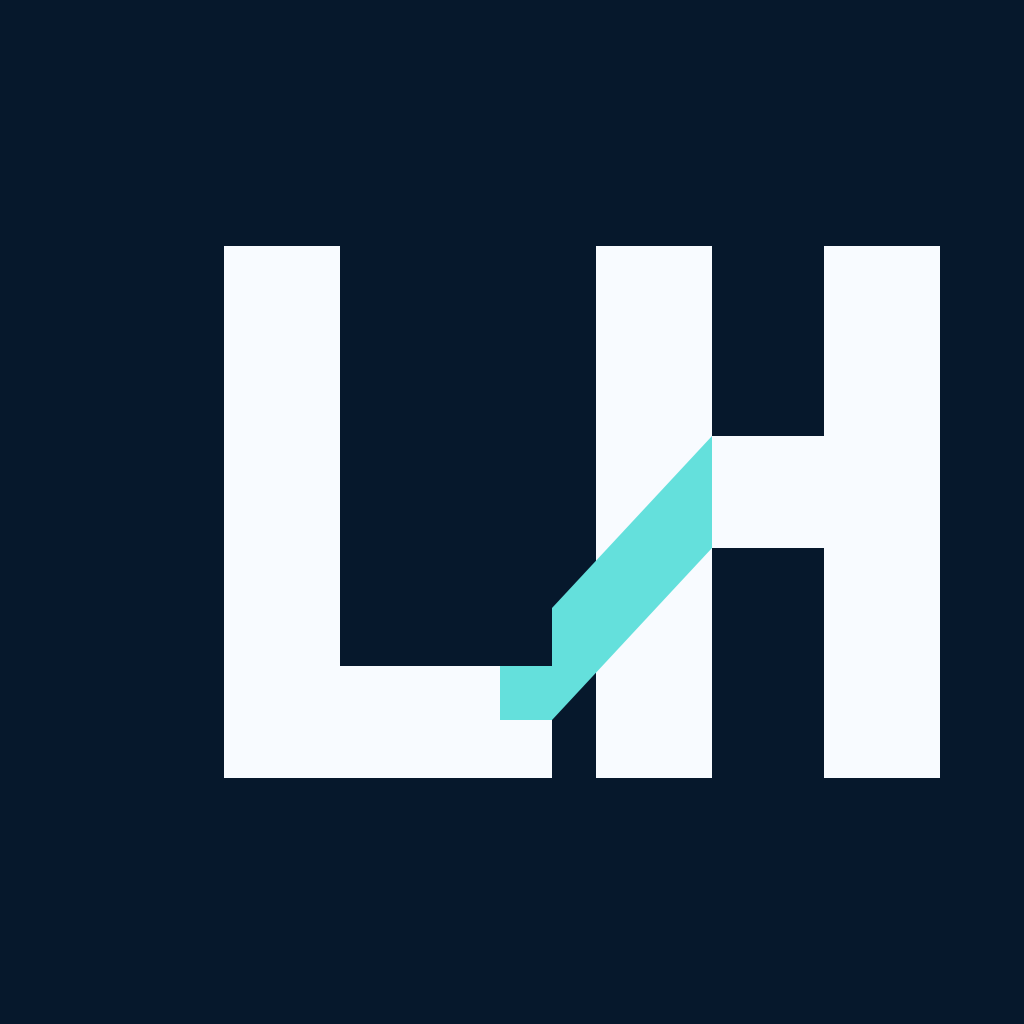
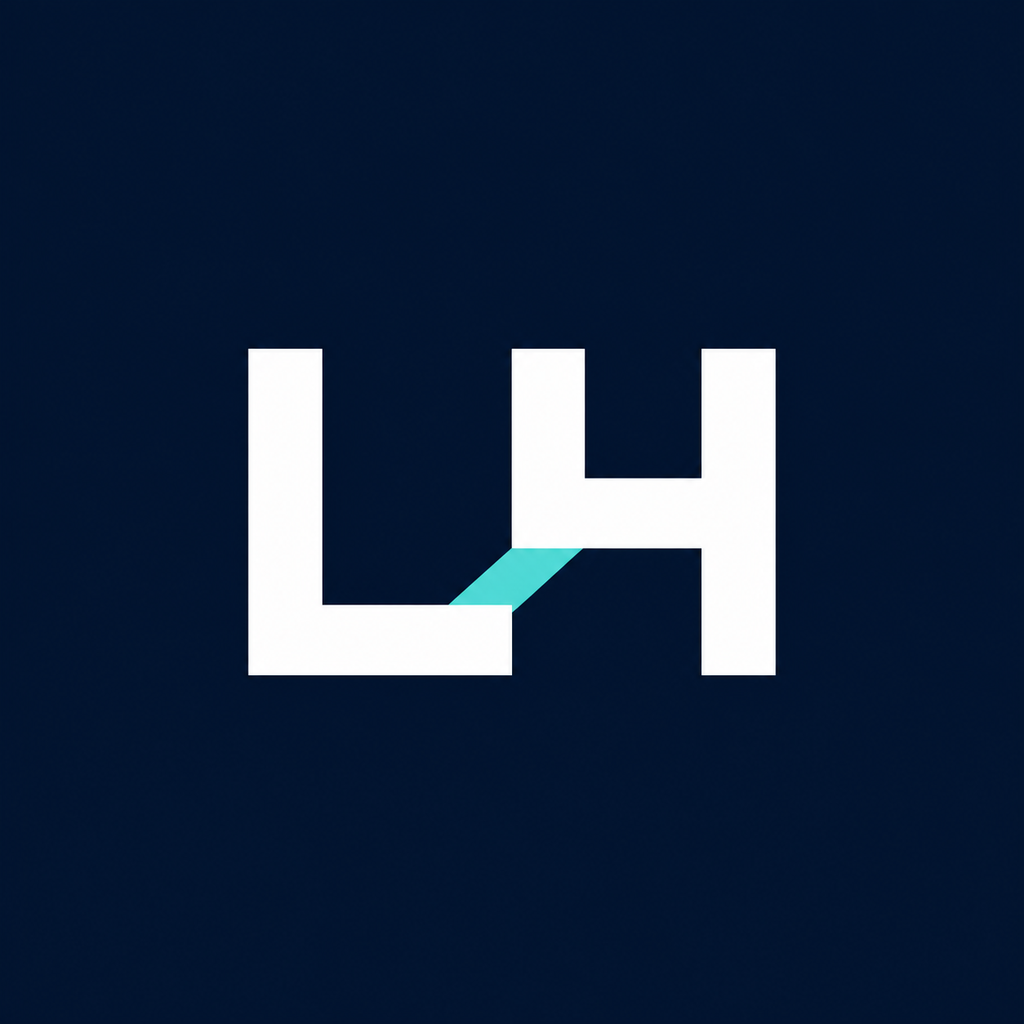
feat: apply approved League Hub brand mark

Changed region(s): [[0.2188, 0.2188, 0.9375, 0.7812]]

diff --git a/store_assets/render-assets.js b/store_assets/render-assets.js
@@ -1,10 +1,43 @@
 const fs = require("node:fs");
 const path = require("node:path");
-const sharp = require("sharp");
 
 const root = path.resolve(__dirname, "..");
+const sharp = require(path.join(root, "apps/admin/node_modules/sharp"));
+const masterArtwork = path.join(root, "assets/brand/league-hub-master.png");
 const brandMark = path.join(root, "assets/brand/league-hub-app-icon-1024.png");
 const featureOutput = path.join(__dirname, "google-play/feature-graphic-1024x500.png");
+
+const outputs = new Map([
+  ["assets/brand/league-hub-app-icon-1024.png", 1024],
+  ["assets/brand/league-hub-play-icon-512.png", 512],
+  ["assets/brand/league-hub-web-icon-256.png", 256],
+  ["apps/marketing/public/league-hub-icon.png", 256],
+  ["apps/admin/public/league-hub-icon.png", 256],
+  ["store_assets/google-play/app-icon-512.png", 512],
+  ["ios/Runner/Assets.xcassets/AppIcon.appiconset/Icon-App-20x20@1x.png", 20],
+  ["ios/Runner/Assets.xcassets/AppIcon.appiconset/Icon-App-20x20@2x.png", 40],
+  ["ios/Runner/Assets.xcassets/AppIcon.appiconset/Icon-App-20x20@3x.png", 60],
+  ["ios/Runner/Assets.xcassets/AppIcon.appiconset/Icon-App-29x29@1x.png", 29],
+  ["ios/Runner/Assets.xcassets/AppIcon.appiconset/Icon-App-29x29@2x.png", 58],
+  ["ios/Runner/Assets.xcassets/AppIcon.appiconset/Icon-App-29x29@3x.png", 87],
+  ["ios/Runner/Assets.xcassets/AppIcon.appiconset/Icon-App-40x40@1x.png", 40],
+  ["ios/Runner/Assets.xcassets/AppIcon.appiconset/Icon-App-40x40@2x.png", 80],
+  ["ios/Runner/Assets.xcassets/AppIcon.appiconset/Icon-App-40x40@3x.png", 120],
+  ["ios/Runner/Assets.xcassets/AppIcon.appiconset/Icon-App-60x60@2x.png", 120],
+  ["ios/Runner/Assets.xcassets/AppIcon.appiconset/Icon-App-60x60@3x.png", 180],
+  ["ios/Runner/Assets.xcassets/AppIcon.appiconset/Icon-App-76x76@1x.png", 76],
+  ["ios/Runner/Assets.xcassets/AppIcon.appiconset/Icon-App-76x76@2x.png", 152],
+  ["ios/Runner/Assets.xcassets/AppIcon.appiconset/Icon-App-83.5x83.5@2x.png", 167],
+  ["ios/Runner/Assets.xcassets/AppIcon.appiconset/Icon-App-1024x1024@1x.png", 1024],
+  ["ios/Runner/Assets.xcassets/LaunchImage.imageset/LaunchImage.png", 168],
+  ["ios/Runner/Assets.xcassets/LaunchImage.imageset/LaunchImage@2x.png", 336],
+  ["ios/Runner/Assets.xcassets/LaunchImage.imageset/LaunchImage@3x.png", 504],
+  ["android/app/src/main/res/mipmap-mdpi/ic_launcher.png", 48],
+  ["android/app/src/main/res/mipmap-hdpi/ic_launcher.png", 72],
+  ["android/app/src/main/res/mipmap-xhdpi/ic_launcher.png", 96],
+  ["android/app/src/main/res/mipmap-xxhdpi/ic_launcher.png", 144],
+  ["android/app/src/main/res/mipmap-xxxhdpi/ic_launcher.png", 192],
+]);
 
 const escapeXml = (value) => value.replace(/[&<>"']/g, (character) => ({
   "&": "&amp;",
@@ -44,7 +77,35 @@ async function renderFeatureGraphic() {
     .toFile(featureOutput);
 }
 
-renderFeatureGraphic().catch((error) => {
+async function renderBrandAssets() {
+  for (const [relativeOutput, size] of outputs) {
+    const output = path.join(root, relativeOutput);
+    fs.mkdirSync(path.dirname(output), { recursive: true });
+    await sharp(masterArtwork)
+      .resize(size, size, { fit: "fill", kernel: sharp.kernel.lanczos3 })
+      .png({ compressionLevel: 9 })
+      .toFile(output);
+  }
+
+  await sharp(masterArtwork)
+    .resize(630, 630, { fit: "fill", kernel: sharp.kernel.lanczos3 })
+    .extend({
+      top: 0,
+      bottom: 0,
+      left: 285,
+      right: 285,
+      background: "#06182c",
+    })
+    .png({ compressionLevel: 9 })
+    .toFile(path.join(root, "apps/marketing/public/league-hub-social.png"));
+}
+
+async function main() {
+  await renderBrandAssets();
+  await renderFeatureGraphic();
+}
+
+main().catch((error) => {
   console.error(error);
   process.exitCode = 1;
 });

diff --git a/apps/marketing/src/app/layout.tsx b/apps/marketing/src/app/layout.tsx
@@ -20,12 +20,21 @@ export const metadata: Metadata = {
     type: "website",
     locale: "en_CA",
     siteName: "League Hub",
+    images: [
+      {
+        url: "/league-hub-social.png",
+        width: 1200,
+        height: 630,
+        alt: "League Hub",
+      },
+    ],
   },
   twitter: {
-    card: "summary",
+    card: "summary_large_image",
     title: "League Hub | Your league, connected",
     description:
       "One trusted place for every game, update, conversation, and league resource.",
+    images: ["/league-hub-social.png"],
   },
 };
 

diff --git a/store_assets/README.md b/store_assets/README.md
@@ -1,5 +1,9 @@
 # League Hub store release assets
 
+`assets/brand/league-hub-master.png` is the approved source artwork. Run
+`node store_assets/render-assets.js` after changing it to regenerate every
+native icon, launch image, website icon, social image, and Google Play graphic.
+
 This folder contains non-secret listing copy, compliance drafts, final icons, and approved screenshot exports. Reviewer passwords and Android signing credentials are stored in macOS Keychain and never committed.
 
 Final screenshots are produced from the isolated production review organization on a 6.9-inch iPhone simulator. The app is intentionally iPhone-only for the first App Store release until a dedicated iPad experience is ready.
